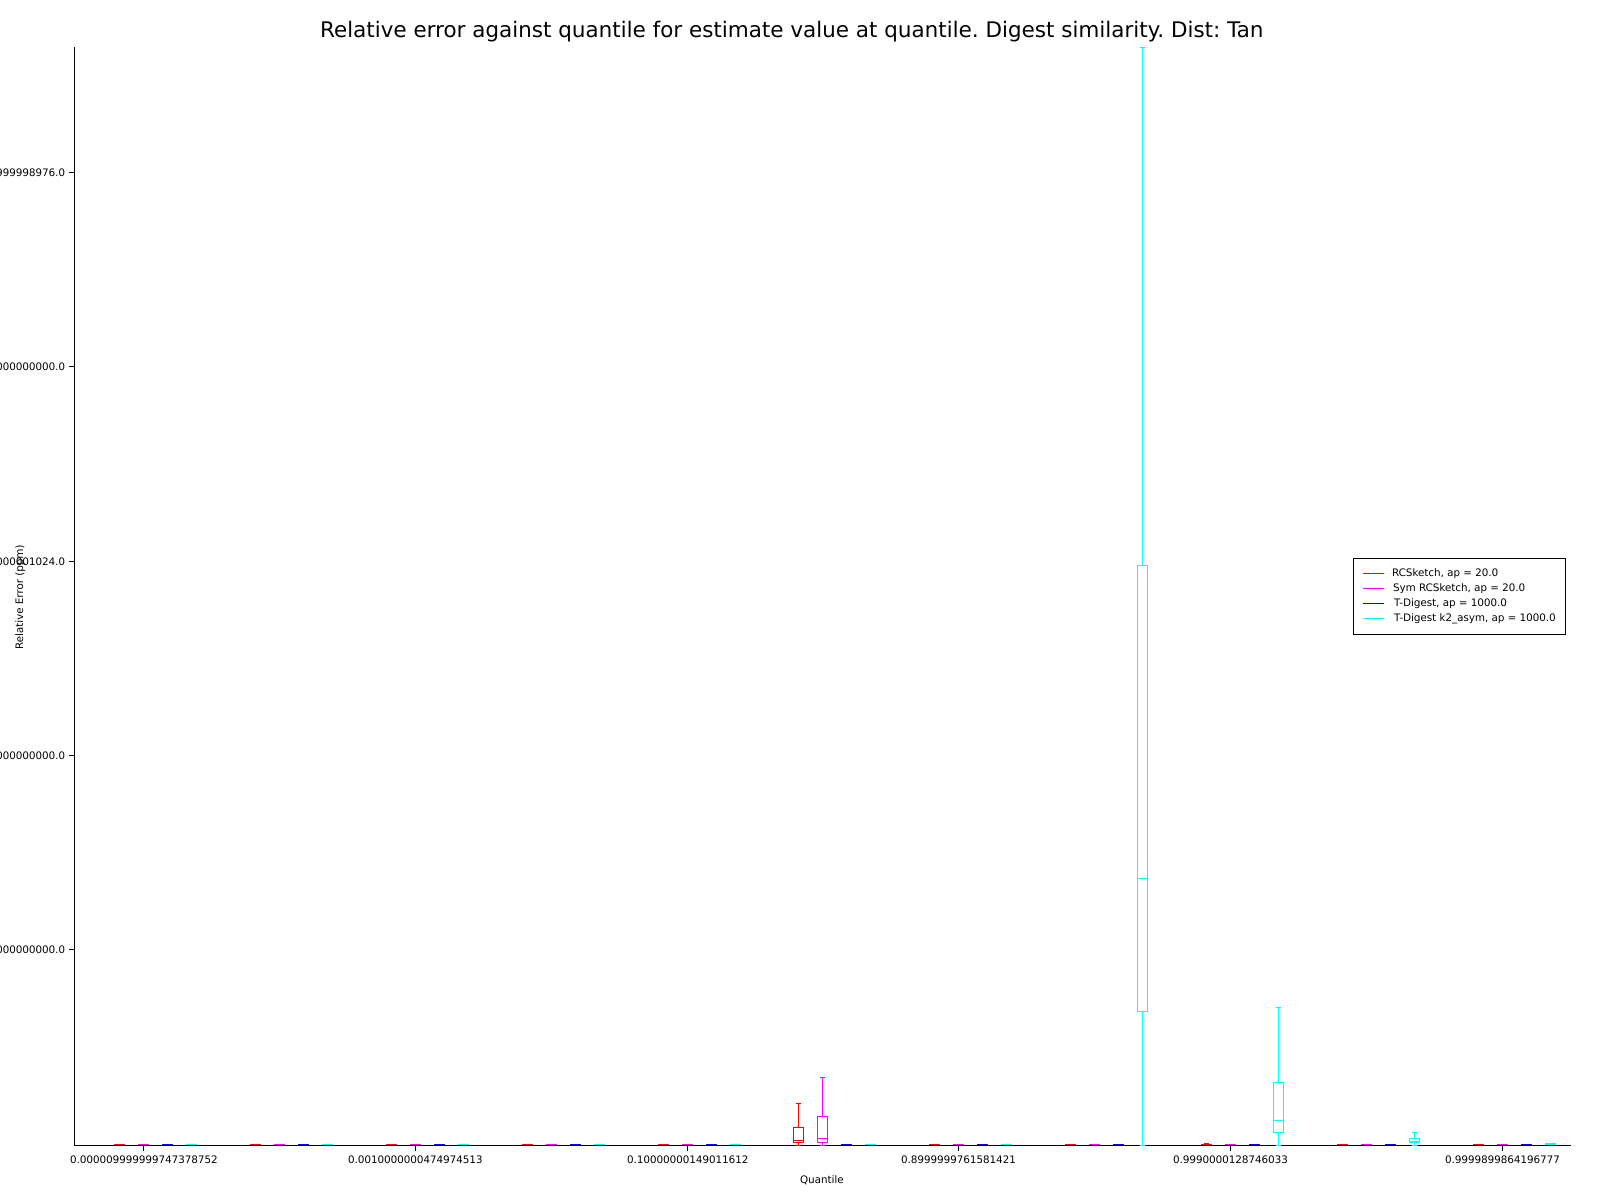
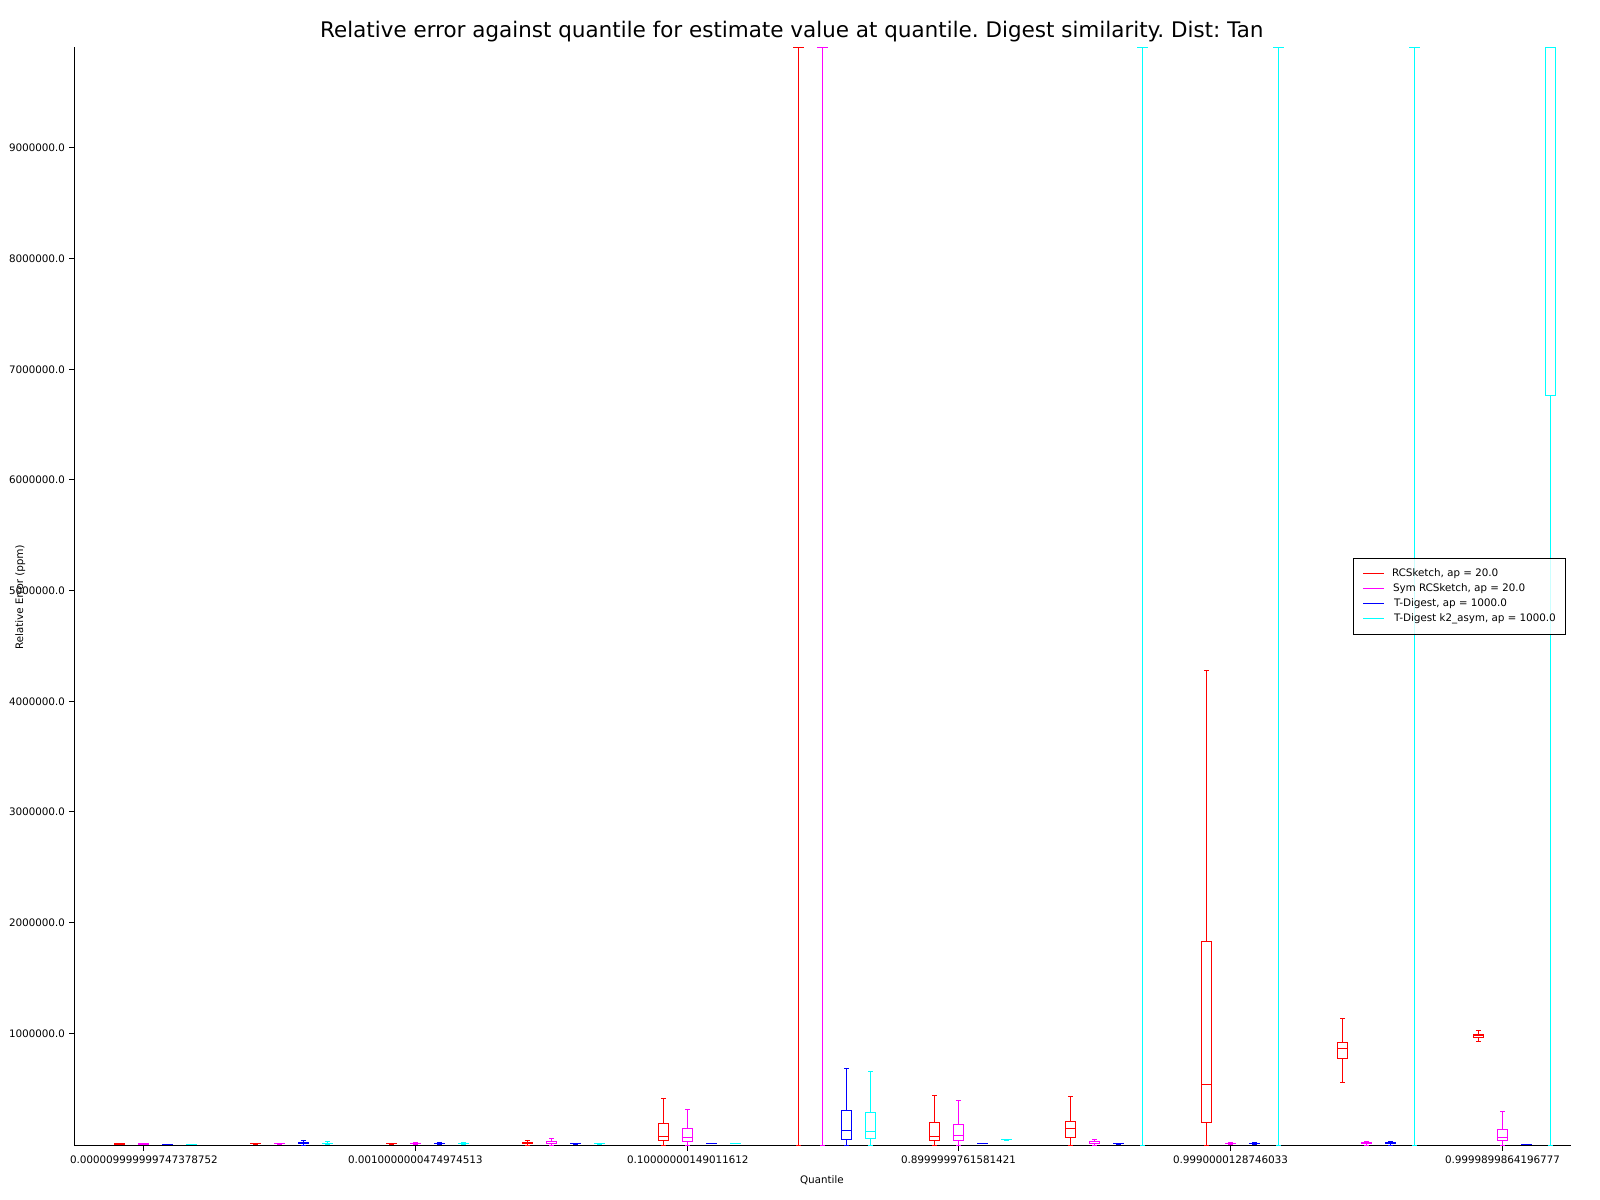
more plots

diff --git a/examples/accuracy.rs b/examples/accuracy.rs
@@ -101,7 +101,7 @@ where
         .flatten()
         .collect();
     // println!("{:?}", y_values);
-    let y_values_range = fitting_range(y_values.iter().filter(|x| **x > 1e7));
+    let y_values_range = fitting_range(y_values.iter().filter(|x| **x <= 1e7));
     let x_values: Vec<f64> = series[0..1]
         .iter()
         .map(|s| s.datapoints.iter().map(|a| a.0).collect::<Vec<f64>>())
